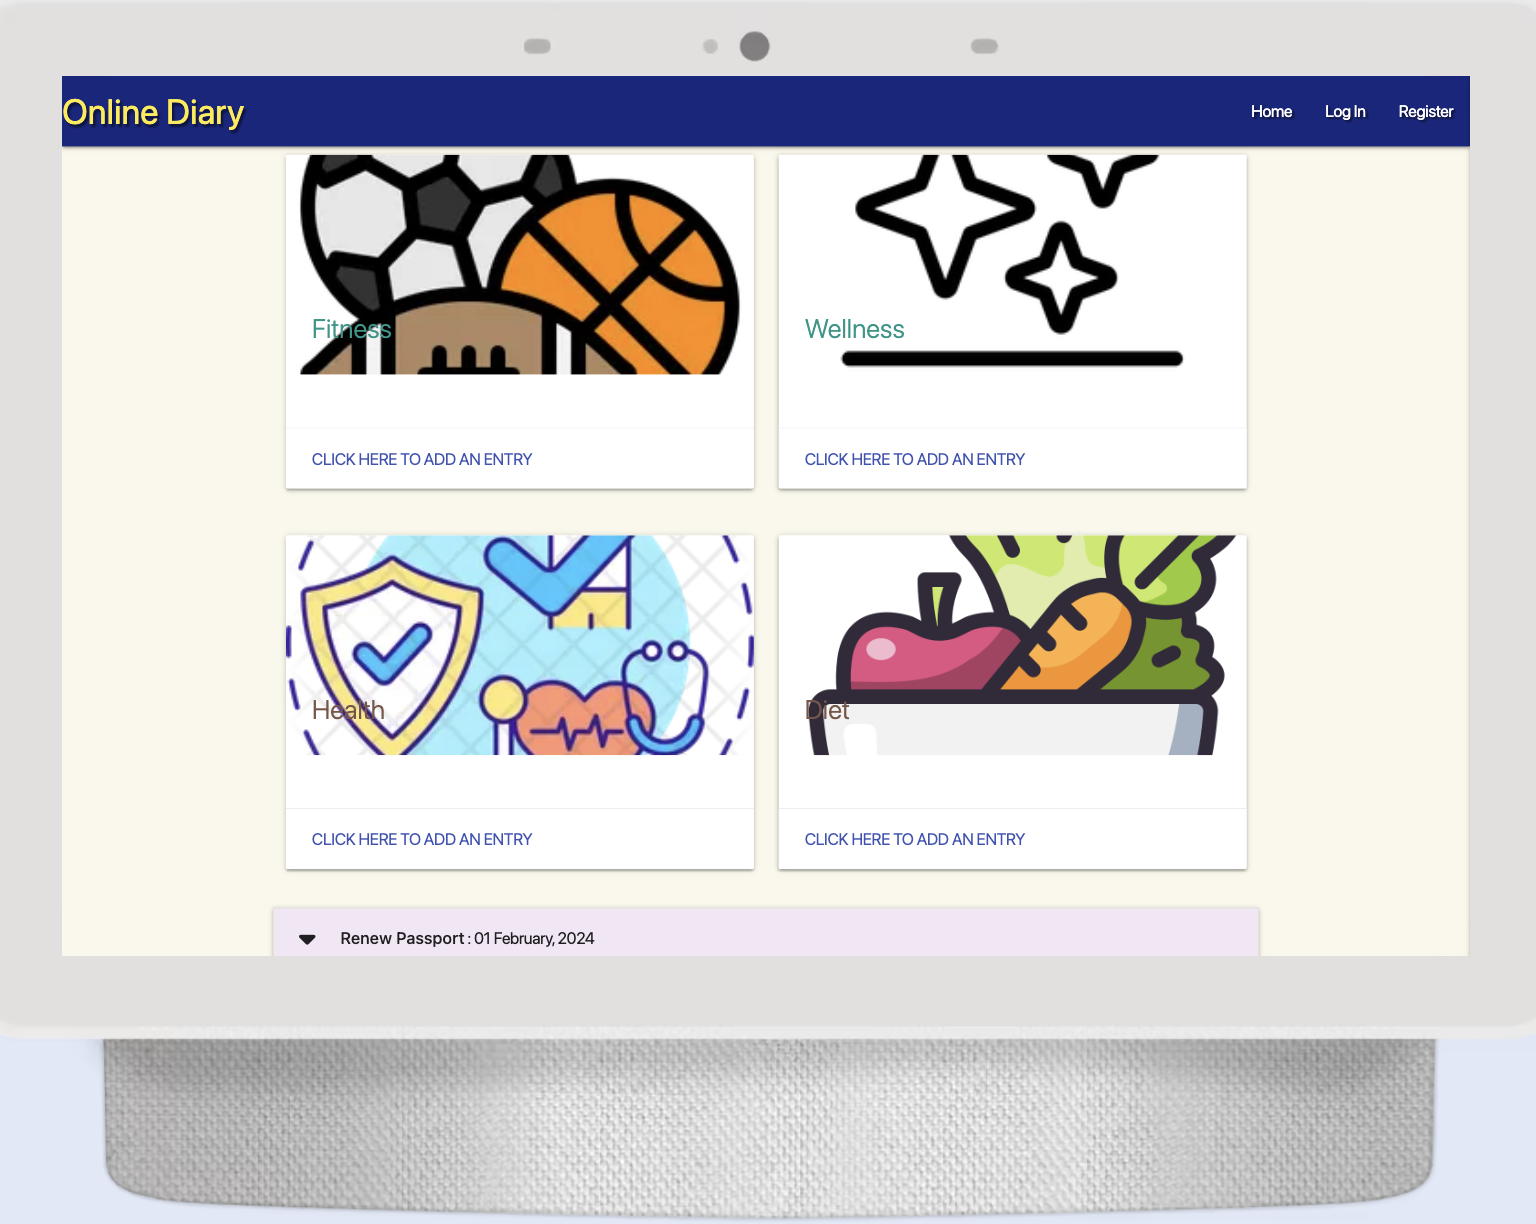
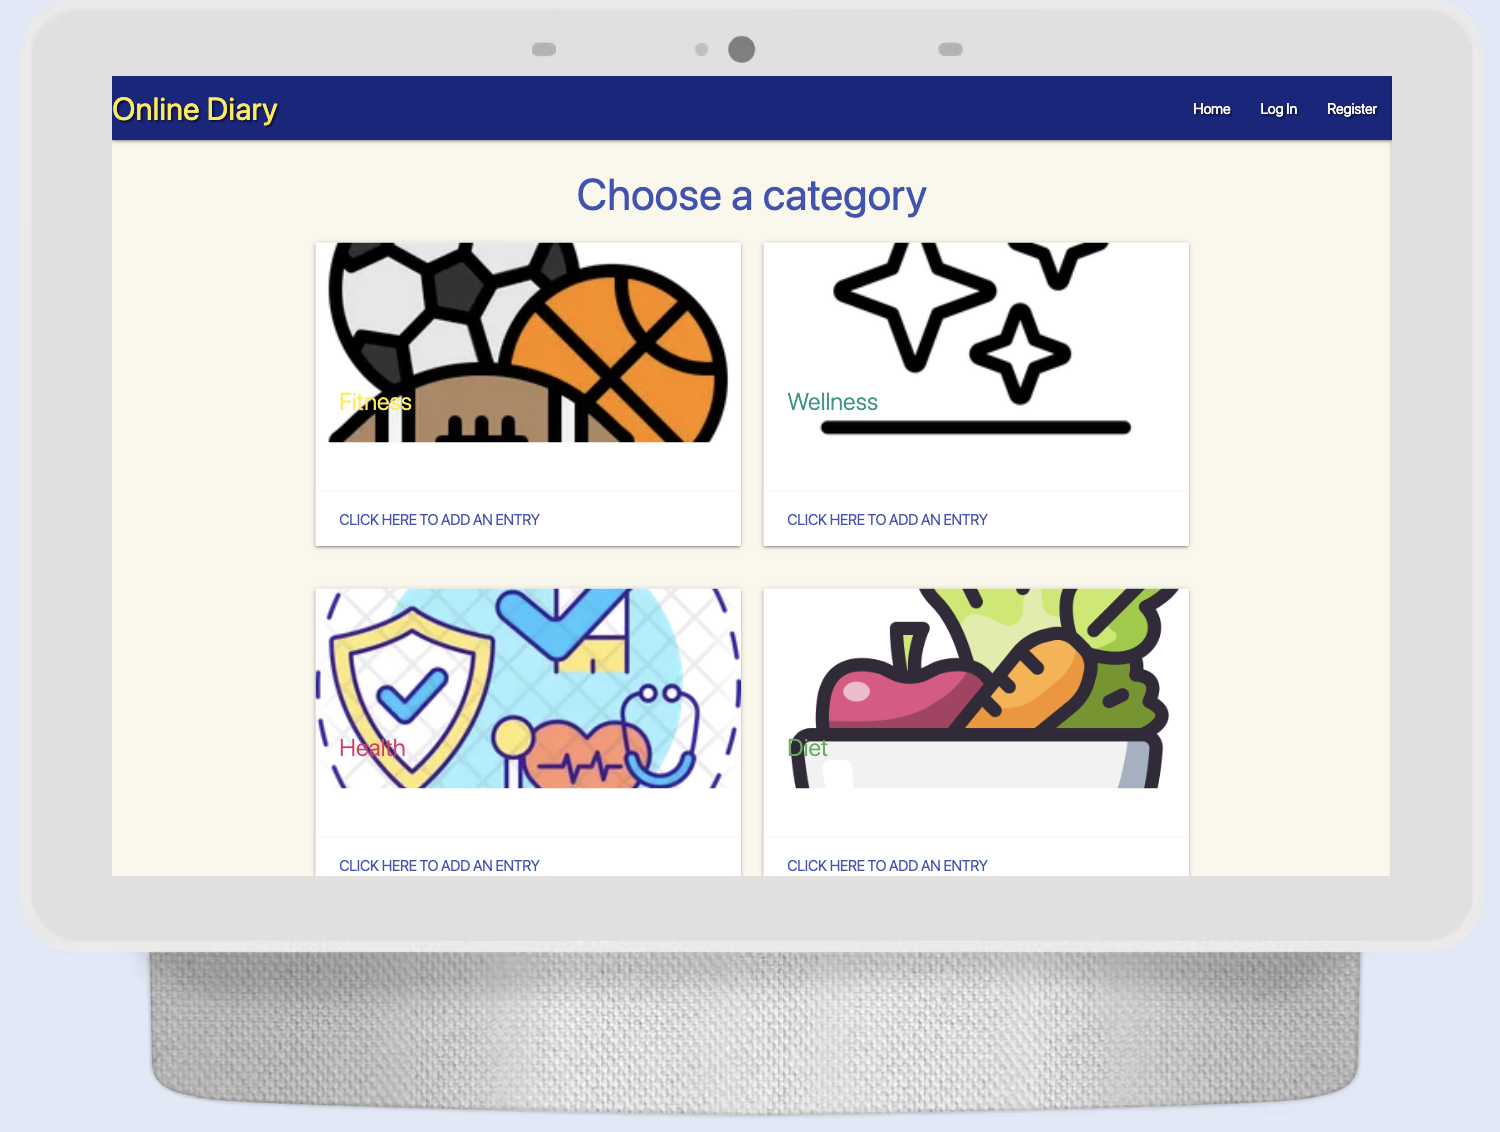
added front image

diff --git a/templates/tasks.html b/templates/tasks.html
@@ -1,18 +1,19 @@
 {% extends "base.html" %}
 {% block content %}
 
+<h3 class="center align indigo-text">Choose a category</h3>
 
 <div class="row">
     <div class="col s12 m6">
       <div class="card">
         <div class="card-image">
           <img src="static/images/sport.webp" alt="fitness">
-          <span class="card-title teal-text">Fitness</span>
+          <span class="card-title yellow-text">Fitness</span>
         </div>
         <div class="card-content">
         </div>
         <div class="card-action">
-          <a href="{{ url_for('add_task') }}" class=" indigo-text">Click here to add an entry</a>
+            <a href="{{ url_for('add_task') }}" class=" indigo-text">Click here to add an entry</a>
         </div>
       </div>
     </div>
@@ -36,7 +37,7 @@
       <div class="card">
         <div class="card-image">
           <img src="static/images/health.webp" alt="health">
-          <span class="card-title brown-text">Health</span>
+          <span class="card-title pink-text">Health</span>
         </div>
         <div class="card-content">
         </div>
@@ -49,7 +50,7 @@
       <div class="card">
         <div class="card-image">
           <img src="static/images/diet.png" alt="diet">
-          <span class="card-title brown-text">Diet</span>
+          <span class="card-title green-text">Diet</span>
         </div>
         <div class="card-content">
         </div>
@@ -61,7 +62,8 @@
   </div>
 
 
-  
+
+  <h3 class="center align indigo-text">Existing Entries</h3>
   <ul class="collapsible">
     {% for task in tasks %}
     <li>
@@ -84,5 +86,6 @@
     </li>
     {% endfor %}
 </ul>
+
 
 {% endblock %}
